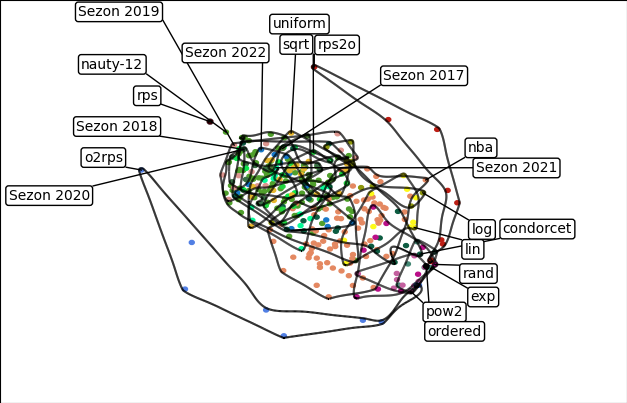
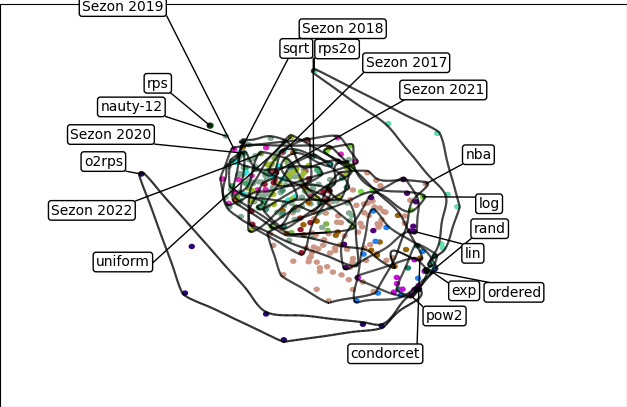
pngs generated

Changed region(s): [[0.0, 0.0, 1.0, 0.9231], [0.2727, 0.6551, 0.3636, 0.7742], [0.3636, 0.6551, 0.3939, 0.7146]]

diff --git a/src/generator/labels_generator.py b/src/generator/labels_generator.py
@@ -152,7 +152,7 @@ class Label:
     def get_err(self, include_x0: bool = False) -> float:
         if include_x0:
             return (np.sqrt((self.rp_x-self.t_point[0])**2 + (self.rp_y-self.t_point[1])**2)) \
-                    + np.sqrt((self.x0_x - self.x)**2 + (self.x0_y - self.y)**2)/self.x0_error_loss_parameter_denominator
+                    + np.sqrt((self.x0_x - self.t_point[0])**2 + (self.x0_y - self.t_point[1])**2)/self.x0_error_loss_parameter_denominator
         return np.sqrt((self.rp_x-self.t_point[0])**2 + (self.rp_y-self.t_point[1])**2)
     
     def get_mpoint(self) -> CPoint:
@@ -399,7 +399,7 @@ def greedy(middle_point: Point, ll: List[Label], ms: MainSet) -> np.ndarray:
 #                                     LOSS                                     #
 # ---------------------------------------------------------------------------- #
 
-def loss(x: np.ndarray, label_list: LabelList, main_set: MainSet, include_x0_in_err: bool = True) -> float:
+def loss(x: np.ndarray, label_list: LabelList, main_set: MainSet, include_x0_in_err: bool = False) -> float:
     
     # ---------------------------------- UPDATE ---------------------------------- #
 
@@ -422,16 +422,16 @@ def loss(x: np.ndarray, label_list: LabelList, main_set: MainSet, include_x0_in_
         mp = label.get_mpoint()
         candidates = nx[kd.query_ball_point(x=mp, r=label.width/2+0.001, p=np.inf)]
         if len(candidates[candidates[:, 1] <= label.points[3][1] + label.height]) > 4:
-            intersections += 5
+            intersections += 1
 
         # main set penalty
         if any(point in main_set for point in label.points):
-            intersections += 15
+            intersections += 3
 
         # loss
         loss += label.get_err(include_x0_in_err)
 
-    return loss*((1 + intersections)**2)
+    return loss + (intersections**2)*100
 
 def iter_loss(x: np.ndarray, label: Label, static_label_list: List[Label], main_set: MainSet, flg_arr: List[bool], include_x0_in_err: bool = False) -> float:
     
@@ -484,7 +484,7 @@ def iter_loss(x: np.ndarray, label: Label, static_label_list: List[Label], main_
     # loss
     loss += label.get_err(include_x0_in_err)
 
-    return loss*((1 + intersections)**2)
+    return loss + (intersections**2)*100
 
 def mixed_loss(x: np.ndarray, label_list: List[Label], static_label_list: List[Label], main_set: MainSet, include_x0_in_err: bool = False) -> float:
 
@@ -533,7 +533,7 @@ def mixed_loss(x: np.ndarray, label_list: List[Label], static_label_list: List[L
         # loss
         loss += label.get_err(include_x0_in_err)
 
-    return loss + intersections**2
+    return loss + (intersections**2)*100
 
 def mixed_square_loss(x: np.ndarray, label_list: List[Label], static_label_list: List[Label], main_set: MainSet, include_x0_in_err: bool = False) -> float:
 
@@ -592,7 +592,7 @@ def mixed_square_loss(x: np.ndarray, label_list: List[Label], static_label_list:
 
         loss += cur_label.get_err(include_x0_in_err)
 
-    return loss + intersections**2
+    return loss + (intersections**2)*100
     
 # ---------------------------------------------------------------------------- #
 #                                 HULL SWELLER                                 #
@@ -731,7 +731,7 @@ def calc(idata: InData,
             lx = lres.x
 
             flg[0] = False
-            loss = iter_loss(lx, label, res_ll, mset, flg) # updates the label with finall x (and calculates finall intersection flag)
+            _loss = iter_loss(lx, label, res_ll, mset, flg) # updates the label with finall x (and calculates finall intersection flag)
             res_ll.append(label)
 
         x = Label.ll_get(res_ll)
@@ -752,7 +752,10 @@ def calc(idata: InData,
         accept = curr_config['accept']
         no_local_search = curr_config['no_local_search']
 
-        res = dual_annealing(loss, bounds=labels_bounds, args=(ll, mset), 
+        # res = dual_annealing(loss, bounds=labels_bounds, args=(ll, mset, curr_config['generate_greedy_x0']),
+        #                      x0=x0, maxiter=maxiter, visit=visit, initial_temp=initial_temp, 
+        #                      restart_temp_ratio=restart_temp_ratio, accept=accept, no_local_search=no_local_search)
+        res = dual_annealing(mixed_square_loss, bounds=labels_bounds, args=(ll, [], mset, curr_config['generate_greedy_x0']),
                              x0=x0, maxiter=maxiter, visit=visit, initial_temp=initial_temp, 
                              restart_temp_ratio=restart_temp_ratio, accept=accept, no_local_search=no_local_search)
         x = res.x
@@ -785,7 +788,7 @@ def calc(idata: InData,
                                   accept=accept, no_local_search=no_local_search)
             lx = lres.x
 
-            loss = mixed_square_loss(lx, group, res_ll, mset) # updates the label with finall x
+            _loss = mixed_square_loss(lx, group, res_ll, mset) # updates the label with finall x
             res_ll.extend(group)
 
         x = Label.ll_get(res_ll)

diff --git a/parallel_tests.py b/parallel_tests.py
@@ -2,6 +2,7 @@ from src.main import draw_maps, draw_maps_editor
 
 import time
 import argparse
+import fcntl
 
 parser = argparse.ArgumentParser()
 parser.add_argument("source_data", type=str, help="csv file path with data")
@@ -13,4 +14,8 @@ args = parser.parse_args()
 s = time.time()
 draw_maps(args.source_data, args.out_path, config_id=args.config)
 e = time.time()
+with open("pngs/results.csv", "a") as f:
+    fcntl.flock(f, fcntl.LOCK_EX)
+    f.write(f"{args.source_data};{args.config};{args.out_path};{e-s}\n")
+    fcntl.flock(f, fcntl.LOCK_UN)
 print(f"{e-s}")

diff --git a/src/main.py b/src/main.py
@@ -5,6 +5,7 @@ Module with main exported functions of the package
 import sys
 import logging
 from typing import Optional, Union
+import os
 
 import matplotlib.pyplot as plt
 from mapel.core.objects.Experiment import Experiment
@@ -158,6 +159,8 @@ def draw_maps(raw_data: Union[str, Experiment],
     st.draw(ax)
 
     bbox = ax.get_tightbbox().transformed(fig.dpi_scale_trans.inverted())
+    
+    os.makedirs(os.path.dirname(out_path), exist_ok=True)
     fig.savefig(out_path, bbox_inches=bbox, pad_inches=0)
 
     return None
